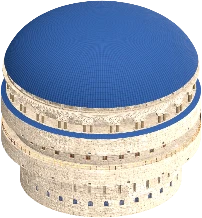
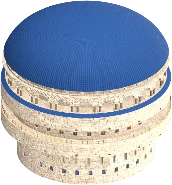
صحراء اليمامة: كل مبنى داخل مربعه، أطلال واضحة، والقبة فوق الرواق فقط
- القاعات والقبة الكبرى كانت قاعدتها تخرج من مربعها فتتداخل مع جيرانها وتبدو مقطوعة:
  صُغّرت حتى تبقى قاعدة كل مبنى داخل معين مربعه، فترتيب الرسم صحيح في الخريطة كلها
- الأطلال كانت صورة بيت مقطوعة تبدو كخطأ رسم: صارت بيت طين منهاراً واضحاً
  (أرضية مكشوفة وبقايا جدران قصيرة وركام وعارضة)
- القبة الزرقاء لا تُستعمل وحدها على الأرض: فوق الرواق المقوّس (pavilion) أو الرواق وحده
- المعلم القبة الكبرى وحدها داخل مربعها (المئذنة كانت في مربع جار)

Claude-Session: https://claude.ai/code/session_012d4Xmnpwk9ETyKqjQsJyfq

diff --git a/js/render/yamamah.js b/js/render/yamamah.js
@@ -18,9 +18,9 @@ const ART = {
   round_tower: [109, 193, 54.5, 172.9, 1],
   arch_tower: [104, 179, 52, 158.7, 1],
   drum: [138, 156, 69.3, 123, 1],
-  great_dome: [202, 218, 101, 177.8, 1],
-  hall_a: [173, 151, 86.6, 97.5, 1],
-  hall_b: [176, 178, 89.4, 120.6, 1],
+  great_dome: [172, 185, 85.8, 151.1, 1],
+  hall_a: [105, 92, 52.5, 59.5, 1],
+  hall_b: [131, 132, 66.3, 89.3, 1],
   gatehouse_a: [167, 170, 82.1, 126, 1],
   gatehouse_b: [168, 179, 85, 131, 1],
   gate_i: [152, 168, 75.9, 125.7, 0],
@@ -33,7 +33,7 @@ const ART = {
   minaret: [38, 224, 19.1, 214.6, 1],
   rotunda: [121, 133, 60.6, 104, 0],
   watchtower: [117, 182, 58.3, 160.3, 0],
-  qubba: [142, 92, 70.9, 58, 1],
+  dome: [122, 80, 61.1, 50, 1],
   well: [76, 104, 34.9, 86, 0],
   cart_a: [87, 58, 44.7, 43, 0],
   cart_b: [87, 65, 44.5, 48.4, 0],
@@ -43,6 +43,8 @@ const SET = 'yamamah';
 loadSpriteSet(SET, new URL('../../assets/yamamah/', import.meta.url), ART);
 
 const art = (name, x, y) => drawSprite(getCtx(), getSprite(SET, name), x, y, getToneInfo());
+// ارتفاع مركز الحلقة العليا للرواق فوق مركز قاعدته (من صورته: أعلاها 19.3 وحدة ونصف ارتفاع الحلقة 5.5)
+const ROTUNDA_TOP = 13.8;
 const pick = (a, b, i, j, k) => (hsh(i, j, k) < 0.5 ? a : b);
 
 // ركام عند قاعدة المبنى (نفس ركام damage في المدن الأخرى) لنحو نصف المباني
@@ -74,6 +76,45 @@ function palm(x, y, i, j, s = 1) {
     c.fillStyle = col; c.fill();
   }
   if (!dead) for (let k = 0; k < 3; k++) circ(tx - 2.2 * s + k * 2.2 * s, ty + 2.2 * s + (k % 2) * 0.8 * s, 1.1 * s, k % 2 ? '#b8621e' : '#c97a2a');
+}
+
+// الأطلال: بيت طين منهار بوضوح — أرضيته مكشوفة، وبقايا جدرانه الأربعة قصيرة متكسرة، وركام وعارضة في وسطه.
+// الجداران الأماميان من صورة البيت نفسها مقصوصة فوق خط مكسور موازٍ لقاعدتها (بارتفاع 2.5–6.5 وحدة)،
+// والخلفيان رسم بسيط لوجههما الداخلي. رؤوس قاعدة بيت الطين حول مركز المربع: يسار، أمام، يمين، خلف
+const HL = [-15, 0.9], HB = [-1.8, 7.5], HR = [15, -0.9], HT = [1.8, -7.5];
+const lerp = (a, b, t) => [a[0] + (b[0] - a[0]) * t, a[1] + (b[1] - a[1]) * t];
+function ruinedHouse(x, y, i, j, T) {
+  const c = getCtx(), at = (p, up = 0) => [x + p[0], y + p[1] - up];
+  poly([at(HL), at(HB), at(HR), at(HT)], '#c2a274');
+  const stump = (a, b, col, seed) => {
+    const base = [], top = [];
+    for (let k = 0; k <= 5; k++) { const p = lerp(a, b, k / 5); base.push(at(p)); top.push(at(p, 2 + hsh(i, j, seed + k) * 4.5)); }
+    poly(base.concat(top.reverse()), col);
+  };
+  stump(HL, HT, '#e2cea6', 770);
+  stump(HT, HR, '#cbb48a', 780);
+  for (let k = 0; k < 3; k++) {
+    const cx = x + (hsh(i, j, 790 + k) - 0.5) * 14, cy = y + (hsh(i, j, 793 + k) - 0.5) * 6, r = 3 + hsh(i, j, 796 + k) * 2.5;
+    poly([[cx - r, cy + 0.6], [cx - r * 0.4, cy - r * 0.55], [cx + r * 0.5, cy - r * 0.45], [cx + r, cy + 0.6], [cx, cy + r * 0.45]], k % 2 ? '#cdb48c' : '#b89a70');
+  }
+  if (hsh(i, j, 810) < 0.6) ln(x - 7, y + 1.5, x + 4, y - 3, '#6e5232', 1.1);
+  const jag = [];
+  for (let k = 0; k <= 8; k++) {
+    const t = k / 8, p = t <= 0.5 ? lerp(HL, HB, t * 2) : lerp(HB, HR, t * 2 - 1);
+    jag.push([x + p[0], y + p[1] - (2.5 + hsh(i, j, 800 + k) * 4)]);
+  }
+  jag[0][0] -= 2;
+  jag[8][0] += 2;
+  c.save();
+  c.beginPath();
+  c.moveTo(jag[0][0], y + 20);
+  for (const p of jag) c.lineTo(p[0], p[1]);
+  c.lineTo(jag[8][0], y + 20);
+  c.closePath();
+  c.clip();
+  art(pick('house_a', 'house_b', i, j, 700), x, y);
+  c.restore();
+  rubble(x, y, i, j + 7, T);
 }
 
 // تموجات الرمل وشجيرات صحراوية على الأرض الفارغة
@@ -120,9 +161,9 @@ export const yamamah = {
   // النوع الافتراضي (للمربعات المردومة)، وأنماط الأحياء: كل حي يأخذ نمطاً واحداً فيبدو حياً متجانساً
   pool: [['house', 40], ['watchtower', 6], ['palm', 14], ['ruin', 12], ['.', 8]],
   styles: [
-    { weight: 52, pool: [['house', 46], ['watchtower', 6], ['qubba', 3], ['palm', 13], ['ruin', 12], ['.', 9]] },          // نجدي
+    { weight: 52, pool: [['house', 49], ['watchtower', 6], ['palm', 13], ['ruin', 12], ['.', 9]] },          // نجدي
     { weight: 33, pool: [['tower', 10], ['roundTower', 7], ['archTower', 6], ['drum', 6], ['hall', 9], ['gatehouse', 6],
-                         ['qubba', 5], ['rotunda', 2], ['minaret', 2], ['house', 12], ['palm', 9], ['ruin', 10], ['.', 6]] },  // قصور
+                         ['pavilion', 5], ['rotunda', 2], ['minaret', 2], ['house', 12], ['palm', 9], ['ruin', 10], ['.', 6]] },  // قصور
     { weight: 15, pool: [['grove', 30], ['palm', 16], ['well', 8], ['house', 16], ['watchtower', 4], ['ruin', 6], ['.', 14]] }   // واحة
   ],
   // الأحياء الصغيرة (غير القابلة للاستيلاء): بساتين نخيل وآبار وعربات
@@ -138,19 +179,16 @@ export const yamamah = {
       art(pick('house_a', 'house_b', i, j, 700), x, y);
       damage(x, y, 15, 7.5, 8, i, j, T);
     },
-    // الأطلال: بيت طين منهار (الصورة نفسها مقصوصة بخط مكسور) وركام حوله
-    ruin(x, y, i, j, T) {
-      broken(pick('house_a', 'house_b', i, j, 700), x, y, i, j, T, 0, 3 + hsh(i, j, 742) * 5);
-      rubble(x, y, i, j + 7, T);
-    },
+    ruin(x, y, i, j, T) { ruinedHouse(x, y, i, j, T); },
     tower(x, y, i, j, T) { art(pick('tower_a', 'tower_b', i, j, 701), x, y); rubble(x, y, i, j, T); },
     roundTower(x, y, i, j, T) { art('round_tower', x, y); rubble(x, y, i, j, T); },
     archTower(x, y, i, j, T) { art('arch_tower', x, y); rubble(x, y, i, j, T); },
     drum(x, y, i, j, T) { art('drum', x, y); rubble(x, y, i, j, T); },
     hall(x, y, i, j, T) { art(pick('hall_a', 'hall_b', i, j, 702), x, y); rubble(x, y, i, j, T); },
     gatehouse(x, y, i, j, T) { art(pick('gatehouse_a', 'gatehouse_b', i, j, 703), x, y); rubble(x, y, i, j, T); },
-    qubba(x, y, i, j, T) { art('qubba', x, y); rubble(x, y, i, j, T, 6); },
+    // الرواق المقوّس: وحده مفتوحاً، أو بالقبة الزرقاء فوق حلقته العليا (القبة لا تُستعمل وحدها على الأرض)
     rotunda(x, y) { art('rotunda', x, y); },
+    pavilion(x, y) { art('rotunda', x, y); art('dome', x, y - ROTUNDA_TOP); },
     minaret(x, y, i, j, T) { art('minaret', x, y); rubble(x, y, i, j, T, 4); },
     watchtower(x, y, i, j, T) { art('watchtower', x, y); rubble(x, y, i, j, T, 6); },
     // زينة لا تُصبغ (CITY_UNTINTED): نخيل وبساتين وآبار وعربات
@@ -174,8 +212,8 @@ export const yamamah = {
     brokenI(x, y, i, j, T) { broken(pick('wall_i1', 'wall_i2', i, j, 705), x, y, i, j, T, 0.5); },
     brokenJ(x, y, i, j, T) { broken(pick('wall_j1', 'wall_j2', i, j, 706), x, y, i, j, T, -0.5); },
     brokenTower(x, y, i, j, T) { broken('round_tower', x, y, i, j, T, 0); },
-    // المئذنة خلف القبة إلى اليسار، خارج أعمدة قياس السطح (landmarks.roofTop) فتبقى الساعة فوق القبة
-    landmark(x, y) { art('minaret', x - 17, y - 8.5); art('great_dome', x, y); },
+    // القبة الكبرى وحدها داخل مربعها (لا جزء منها في مربع جار يختلط ترتيب رسمه)
+    landmark(x, y) { art('great_dome', x, y); },
     plazaProp(x, y) { art('well', x, y); },
     // حطام الشارع (streetDebris): عربة متروكة بدل السيارة المحطمة، وبراميل هنا وهناك
     wreck(x, y, i, j) { art(pick('cart_a', 'cart_b', i, j, 761), x + (hsh(i, j, 762) - 0.5) * 6, y); },

diff --git a/CLAUDE.md b/CLAUDE.md
@@ -53,6 +53,7 @@
 - **إيقاع الإطارات (`js/pacing.js`):** الجهاز الذي لا يلحق بكل إطارات الشاشة يرسم بإيقاع ثابت (30 على شاشة 60) ويجرّب العودة كل 8 ث؛ التخطي بالزمن فالحمل الثقيل لا يتأثر، ومؤشر الإطارات يكتب "ثابت". للإيقاف: `PERFORMANCE.pacing.enabled = false`. `UI.matchVersion` لم يتغير.
 - **المدن المفتوحة (بطلب المستخدم بعد 8): شيكاغو وهونغ كونغ والأوروبية فقط** — شوارع بعرض مربعين مستقيمة بلا انحراف ولا أزقة، بخط منتصف (`dash` 3 و4) وأرصفة وأشجار على الرصيف البعيد وممرات مشاة عند التقاطعات (`dash` 6 و7)، والمباني صفوف داخل كل حي بينها ممرات مرصوفة (`kind` = `lane_i`/`lane_j`) بأعمدة إنارة وأحواض ومقاعد. الأوروبية: `lanes: 'rows'` وحجم 0.86 (كما وافق المستخدم)؛ شيكاغو وهونغ كونغ أكثف: `'center'` ممر واحد وسط الحي، والأحياء 3 أو 5، وحجم كامل. وفي هونغ كونغ دوار في التقاطع الأقرب للمركز (جزيرة `'Y'` بنافورة وعمود نيون، وحلقة `dash` 5). الرسم في `js/render/openCity.js`، والأرقام في `CITIES.open`، والمدن الست الأخرى بخرائط مطابقة تماماً.
 - **صحراء اليمامة (بطلب المستخدم، المدينة العاشرة):** مبانيها 27 صورة أرسلها المستخدم في `assets/yamamah/` (مقصوصة ومصححة الزاوية لأضلاع 2:1 ومصغّرة بدقة 5.4 بكسل/وحدة، 250 ك.ب)، وتُرسم وتُصبغ في `js/render/sprites.js` (قناع سطح لكل مبنى، والصبغ بنمطي مزج luminosity ثم color)، والطابع في `js/render/yamamah.js`: أحياء نجدية وقصور وواحات (`styles`)، وسور بأقواس وبوابات ومشاعل على الحافتين البعيدتين ومنهار بأقواس قائمة على القريبتين (`buildCityWalls` في المولّد، `CITIES.walls`). لا تُرسم المدينة قبل تحميل صورها (`cityReady`). المدن التسع الأخرى بخرائط مطابقة تماماً.
+- **قاعدة صور اليمامة (بعد ملاحظة المستخدم):** قاعدة كل مبنى داخل معين مربعه (قيس `fit` ≤ 0.97، فلا يتداخل مبنيان ويبقى ترتيب الرسم صحيحاً)، والأطلال بيت طين منهار واضح (أرضية وجدران قصيرة وركام، `ruinedHouse`) لا صورة مقطوعة، والقبة الزرقاء فوق الرواق المقوّس فقط (`pavilion`) أو الرواق وحده، والمعلم القبة الكبرى وحدها.
 - **إصلاح ألوان الاستيلاء (كل المدن):** الصبغ في فضاء OKLab (`colors.tint`، `CAPTURE.tintChroma` و`groundTintChroma`) فلا يصير الأصفر زيتونياً، والطقس قبل الصبغ (الثلج لا يخفيه)، وحدّ ملون للحي المملوك (`CAPTURE.border`)، وخريطة الأرض المنخفضة تتبع لون الحي، وهالة داكنة للجنود في اليمامة.
 - **التالي:** يقرر المستخدم: رفع الصعب > المتوسط إلى 75%، أو موازنة العصابات (الغربان ضعيفة بين البوتات)، أو 5ب. وإن بقي بطء في المعارك الكبيرة: خفض دقة الرسم (devicePixelRatio بحد 2) بطلبه فقط لأنه يغيّر الحدة.
 

diff --git a/docs/GAME_SPEC.md b/docs/GAME_SPEC.md
@@ -172,7 +172,7 @@ docs/                   ملفات المرجع (هذا الملف، prototype.h
 
 | المفتاح | المدينة | ما يميّزها |
 |---|---|---|
-| `yamamah` | صحراء اليمامة | بلدة صحراوية قديمة بسور حجري: أحياء نجدية (بيوت طين وأبراج مراقبة ونخيل)، أحياء قصور (أبراج وقاعات بقباب زرقاء)، واحات (نخيل وآبار وعربات). السور بأقواس وبوابات ومشاعل على الحافتين البعيدتين، ومنهار منخفض بأقواس قائمة على القريبتين. المعلم: القبة الكبرى ومئذنة، والنافورة بئر |
+| `yamamah` | صحراء اليمامة | بلدة صحراوية قديمة بسور حجري: أحياء نجدية (بيوت طين وأبراج مراقبة ونخيل)، أحياء قصور (أبراج وقاعات وأروقة مقوّسة، والقبة الزرقاء فوق الرواق فقط)، واحات (نخيل وآبار وعربات). السور بأقواس وبوابات ومشاعل على الحافتين البعيدتين، ومنهار منخفض بأقواس قائمة على القريبتين. المعلم: القبة الكبرى، والنافورة بئر، والأطلال بيوت طين منهارة |
 | `arab` | مدينة عربية | أسطح مستوية، أقواس، مشربيات، براجيل، قباب، سوق، نخيل. المعلم: قصر بقباب فيروزية |
 | `japan` | مدينة يابانية | خشب وشوجي، أسقف داكنة مقعّرة، كرز، فوانيس حجرية. المعلم: قلعة بثلاثة طوابق |
 | `china` | مدينة صينية | أسقف بسنام مقعّر وأطراف مرفوعة، أعمدة حمراء، هوتونغ، بوابة تذكارية. المعلم: برج الطبل |
